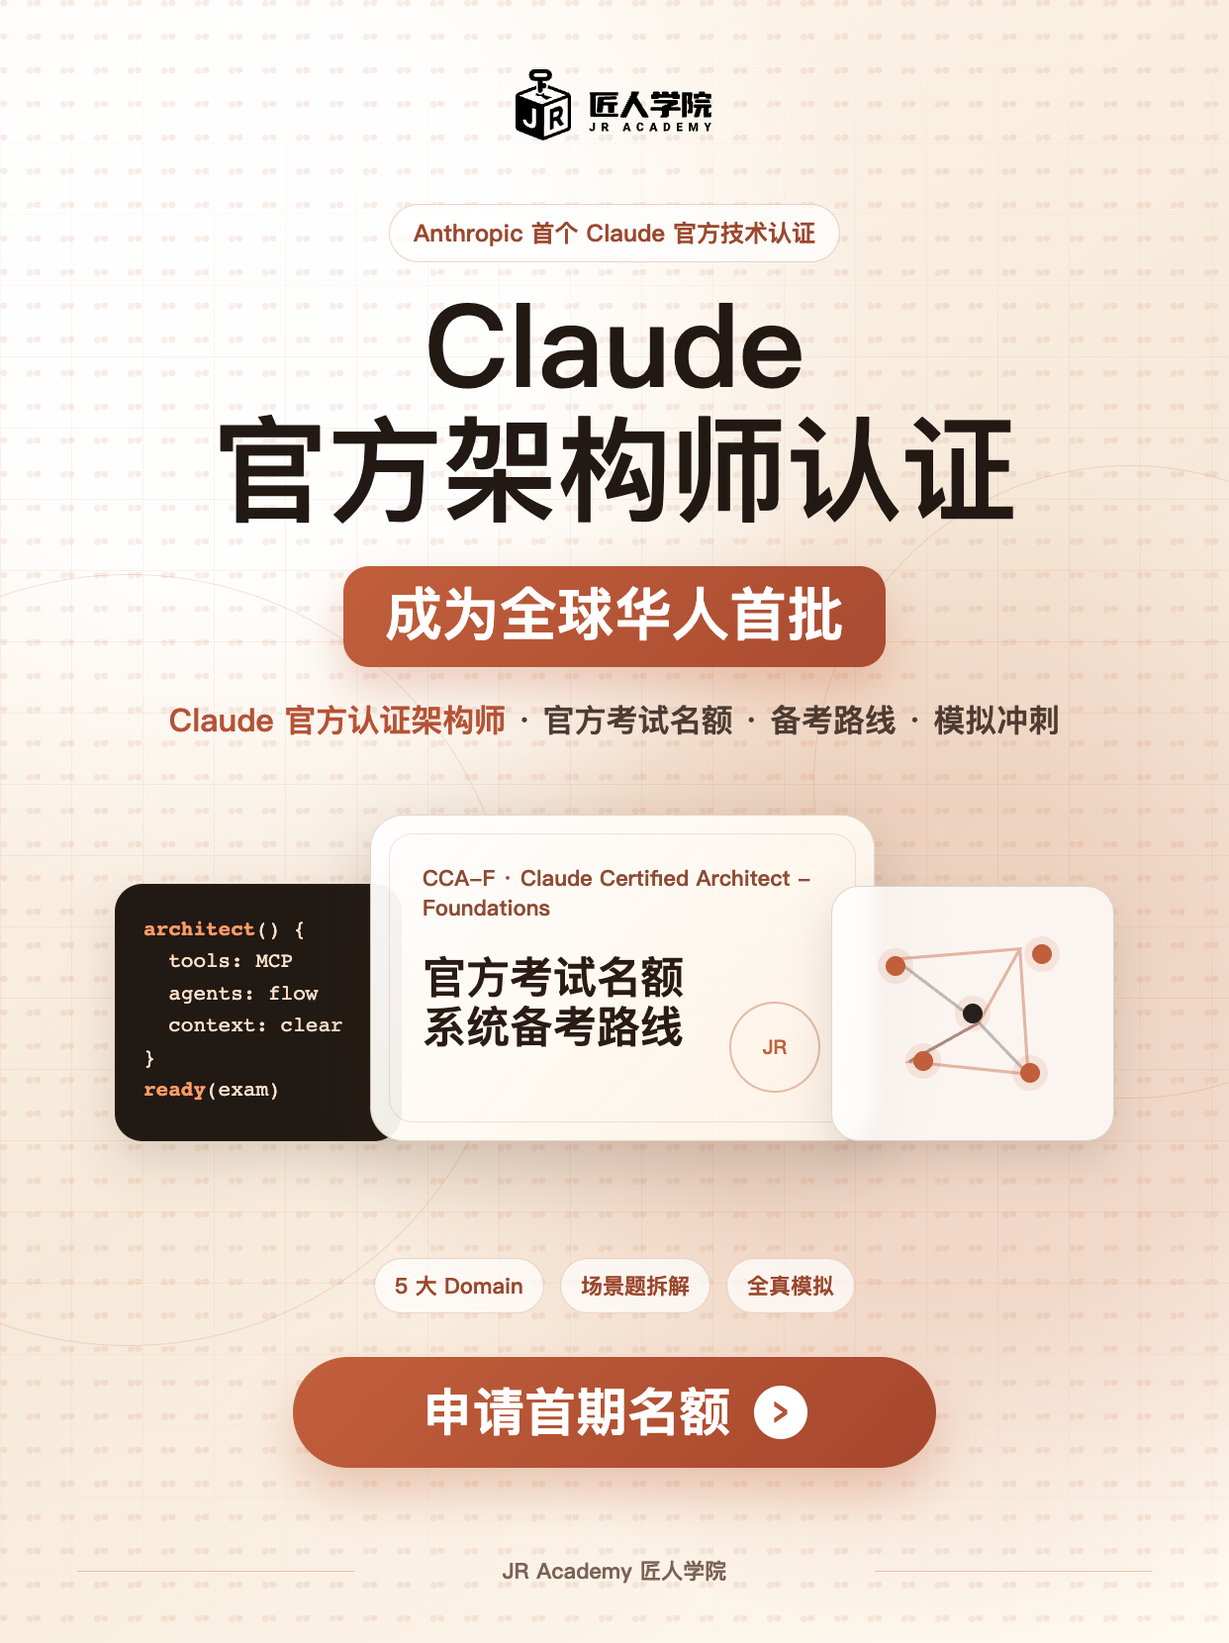
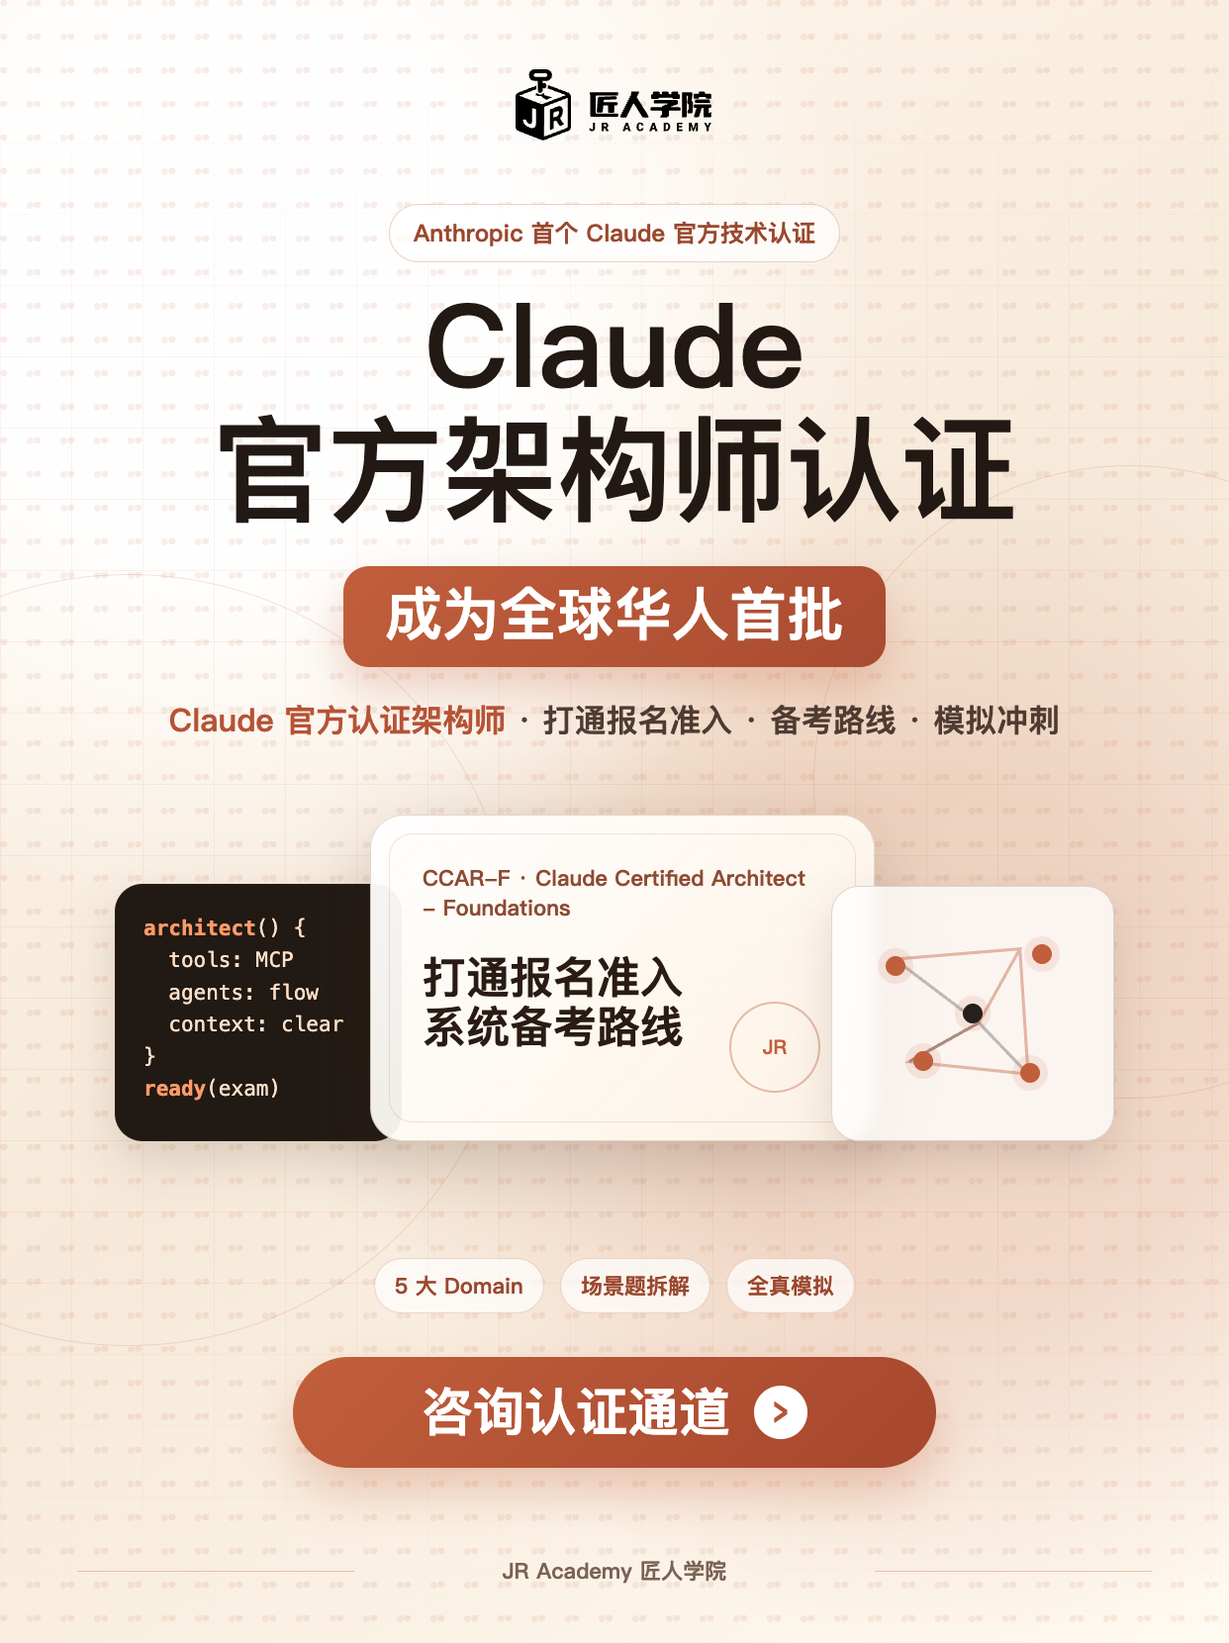
docs(cca-f): align CCAR-F marketing highlights

diff --git a/cca-f-cert-pack/public/curriculum.html b/cca-f-cert-pack/public/curriculum.html
@@ -4,7 +4,7 @@
   <meta charset="UTF-8">
   <meta name="viewport" content="width=device-width,initial-scale=1">
   <title>Claude 官方架构师认证 · 考试直通包 · 报名准入 + 系统备考</title>
-  <meta name="description" content="Anthropic 官方 Claude Certified Architect – Foundations（考试代码 CCAR-F）认证考试直通包：成为全球华人首批 Claude 官方认证架构师。Partner Academy 不对个人开放注册——匠人为你开通账号打通报名准入，另有 5 大 domain 考点精析 + 6 类场景题拆解 + 2 套全真模拟 + 注册约考全程陪跑。">
+  <meta name="description" content="Anthropic 官方 Claude Certified Architect – Foundations（考试代码 CCAR-F）认证考试直通包：成为全球华人首批 Claude 官方认证架构师。匠人通过 Claude Partner Network 合规通道为你开通 Partner Academy 账号，另有 5 大 domain 考点精析 + 6 类场景题拆解 + 2 套全真模拟 + 注册约考全程陪跑。">
   <link href="https://fonts.googleapis.com/css2?family=Bricolage+Grotesque:wght@700;800;900&family=DM+Sans:wght@400;500;600;700&family=Space+Mono:wght@400;700&family=Noto+Sans+SC:wght@400;500;700;900&display=swap" rel="stylesheet">
   <link rel="stylesheet" href="./styles.css">
   <style>
@@ -23,7 +23,7 @@
 <header class="header">
   <div class="c">
     <h1>Claude 官方架构师认证 · 考试直通包</h1>
-    <div class="sub">成为全球华人首批 <strong>Claude 官方认证架构师</strong>。Anthropic Partner Academy 不对个人开放注册——匠人以 Claude Partner Network 成员身份为你开通账号，再带你走完最短备考路线、两套全真模拟冲刺过考。</div>
+    <div class="sub">成为全球华人首批 <strong>Claude 官方认证架构师</strong>。匠人通过 Claude Partner Network 合规通道为你开通 Partner Academy 账号，再带你走完最短备考路线、两套全真模拟冲刺过考。</div>
     <div class="tags">
       <span class="tag a">纯自学 · 12h 看完</span>
       <span class="tag b">开通 Partner Academy 账号</span>
@@ -58,8 +58,8 @@
       <div class="grid2" style="gap:16px">
         <div class="pillar">
           <div class="n">支柱 1 · 报名准入</div>
-          <h4>🚪 这道门个人打不开</h4>
-          <p>CCAR-F 是 Anthropic 首个官方技术认证，报名只走 Partner Academy 这一条路，而<strong>这个平台不对个人开放自助注册</strong>。匠人已注册加入 Claude Partner Network，可以为你<strong>开通账号</strong>——没有这一步你连报名页都进不去。开通后你本人在平台上注册考试、直接向官方支付考试费，我们全程陪你走完注册、建 Pearson 账号、预约和环境自检。</p>
+          <h4>🚪 CPN 合规通道开通账号</h4>
+          <p>CCAR-F 是 Anthropic 首个官方技术认证，报名只走 Partner Academy 这一条链路。匠人已注册加入 Claude Partner Network，可以通过合规通道为你<strong>开通 Partner Academy 账号</strong>、打通报名准入。开通后你本人在平台上注册考试、直接向官方支付考试费，我们全程陪你走完注册、建 Pearson 账号、预约和环境自检。</p>
         </div>
         <div class="pillar">
           <div class="n">支柱 2 · 替你省下几十小时摸索</div>
@@ -176,7 +176,7 @@
         <div class="pain-card">
           <span class="icon">✅</span>
           <h4>适合你，如果……</h4>
-          <p>你<strong>已经在用</strong> Claude / Claude Code / MCP 做真实项目，只差一张官方证书背书；你不需要人从零教你，只想要门票 + 最短路线 + 模拟题自己冲刺过考；你是技术顾问 / 外包，需要认证进入 Anthropic Services Partner Directory 拿单。</p>
+          <p>你<strong>已经在用</strong> Claude / Claude Code / MCP 做真实项目，只差一张官方证书背书；你不需要人从零教你，只想要报名准入 + 最短路线 + 模拟题自己冲刺过考；你是技术顾问 / 外包团队成员，想用个人认证给简历、提案和团队合作伙伴资质加分。</p>
         </div>
         <div class="pain-card">
           <span class="icon">⚠</span>

diff --git a/cca-f-cert-pack/public/poster-v1.html b/cca-f-cert-pack/public/poster-v1.html
@@ -352,7 +352,7 @@
       </div>
 
       <div class="certificate">
-        <div class="small">CCA-F · Claude Certified Architect - Foundations</div>
+        <div class="small">CCAR-F · Claude Certified Architect - Foundations</div>
         <div class="title">打通报名准入<br />系统备考路线</div>
         <div class="seal">JR</div>
       </div>
@@ -376,7 +376,7 @@
       <div class="pill">全真模拟</div>
     </div>
 
-    <div class="cta">申请首期席位 <span>›</span></div>
+    <div class="cta">咨询认证通道 <span>›</span></div>
 
     <footer>
       <span>JR Academy 匠人学院</span>

diff --git a/cca-f-cert-pack/MARKETING_PLAN.md b/cca-f-cert-pack/MARKETING_PLAN.md
@@ -23,7 +23,7 @@
 
 - Claude 官方架构师认证 · 考试直通包
 - 成为全球华人首批 Claude 官方认证架构师
-- 匠人 CPN 合规通道 · 帮你打通个人打不开的报名准入 · 系统备考路线
+- 匠人 CPN 合规通道 · 打通 Partner Academy 报名准入 · 系统备考路线
 
 ## 2. 产品定位
 
@@ -44,7 +44,7 @@
 
 核心不是卖资料，而是三件事：
 
-1. 打通那道门：Partner Academy 是个人打不开的准入墙，匠人通过 CPN 合规通道为你开通账号、打通报名资格。账号开通后，你本人在 Partner Academy 上自行注册考试、自行结账支付官方考试费，再自己建 Pearson VUE 账号约考——每一步匠人都陪你走。
+1. 打通报名准入：匠人通过 CPN 合规通道为你开通 Partner Academy 账号、打通报名资格。账号开通后，你本人在 Partner Academy 上自行注册考试、自行结账支付官方考试费，再自己建 Pearson VUE 账号约考——每一步匠人都陪你走。
 2. 备考路线：把 Anthropic Academy 散课整理成 5-domain 最短路径。
 3. 冲刺确定性：原创考点精析、场景题框架、全真模拟、注册与约考陪跑。
 
@@ -58,7 +58,7 @@
 
 副口号：
 
-> Anthropic 首个 Claude 官方技术认证。个人打不开的报名准入，匠人通过 Claude Partner Network 合规通道为你开通；再配上备考路线和全真模拟，陪你走通注册、约考、考场。
+> Anthropic 首个 Claude 官方技术认证。匠人通过 Claude Partner Network 合规通道为你开通 Partner Academy 账号；再配上备考路线和全真模拟，陪你走通注册、约考、考场。
 
 渠道变体：
 
@@ -98,7 +98,19 @@
 
 ## 5. 核心卖点
 
-### 卖点 1：打通个人打不开的报名准入（CPN 合规通道）
+### 宣传亮点总表
+
+| 亮点 | 对外说法 | 注意 |
+|---|---|---|
+| 首批窗口 | 成为全球华人首批 Claude 官方认证架构师 | 主口号，封面优先用 |
+| 官方认证 | Anthropic 首个 Claude 官方技术认证，考试代码 CCAR-F | 首次出现写全称，后文再补代码 |
+| 报名准入 | 匠人 CPN 合规通道，为你开通 Partner Academy 账号 | 作为可信度支柱，不做封面标题 |
+| 最短路线 | 把 Anthropic Academy 20 门散课编成 5-domain 备考路线 | 强调“官方课免费，但路线和题没有” |
+| 真题型训练 | 6 类场景题拆解 + 四步答题框架 | 不复用官方样题，不碰版权红线 |
+| 全真模拟 | 2 套 60 题 / 120 分钟模拟 + 逐题解析 | 不承诺保过，只讲冲刺和反馈 |
+| 考场陪跑 | 注册、Pearson VUE 约考、OnVUE 环境自检、重考规则答疑 | 强调考试费另付，但公开不写金额 |
+
+### 卖点 1：打通 Partner Academy 报名准入（CPN 合规通道）
 
 这是最硬的价值点，也是可信度支柱，但不要放成封面主口号。封面先讲“成为全球华人首批 Claude 官方认证架构师”。
 
@@ -154,14 +166,14 @@
 首屏必须包含：
 
 - 标题：Claude 官方架构师认证 · 考试直通包
-- 副标题：成为全球华人首批 Claude 官方认证架构师。个人打不开的 Partner Academy 报名准入，匠人 CPN 合规通道为你开通；再配最短备考路线、全真模拟，陪你走完注册、约考、考场。
+- 副标题：成为全球华人首批 Claude 官方认证架构师。匠人 CPN 合规通道为你开通 Partner Academy 账号；再配最短备考路线、全真模拟，陪你走完注册、约考、考场。
 - 三个 bullet：
-  - 为你开通 Anthropic Partner Academy 账号——这道门个人无法自行注册。
+  - 为你开通 Anthropic Partner Academy 账号，打通报名准入。
   - 匠人 CPN 合规通道打通报名资格，全程陪你走注册 → 约考 → 考场。
   - 5-domain 精析 + 场景题拆解 + 全真模拟 + 注册约考陪跑。
 - CTA：
   - 咨询报名资格
-  - 申请首期席位
+  - 咨询认证通道
   - 了解考试直通包
 
 FAQ 必须回答：
@@ -189,7 +201,7 @@ FAQ 必须回答：
 
 封面关键词：
 
-- 个人报不了名
+- Partner Academy 报名准入
 - Anthropic 官方认证
 - 首批 Claude 官方认证架构师
 - Claude 架构师认证
@@ -209,7 +221,7 @@ FAQ 必须回答：
 4. 官方资料免费，但缺少路线和模拟题。
 5. 匠人考试直通包包含什么。
 6. 谁适合报名，谁不适合。
-7. 如何申请首期席位。
+7. 如何咨询认证通道。
 
 ### 朋友圈 / 私域
 
@@ -225,7 +237,7 @@ FAQ 必须回答：
 
 开场：
 
-> 这个不是普通课程，它是 Claude 官方架构师认证的报名准入 + 备考冲刺包。关键点是：Partner Academy 个人自己注册不了，必须由 CPN 伙伴开通账号才进得去。匠人通过 Claude Partner Network 合规通道为你开通账号、打通报名资格，再配套备考路线和模拟冲刺。账号开通后你本人自行注册考试、自行结账付官方考试费（这笔费用不含在包价里，按官方标准，具体金额我私下跟你讲），再自己建 Pearson VUE 账号约考，每一步我都陪你走。
+> 这个不是普通课程，它是 Claude 官方架构师认证的报名准入 + 备考冲刺包。匠人通过 Claude Partner Network 合规通道为你开通 Partner Academy 账号、打通报名资格，再配套备考路线和模拟冲刺。账号开通后你本人自行注册考试、自行结账付官方考试费（这笔费用不含在包价里，按官方标准，具体金额我私下跟你讲），再自己建 Pearson VUE 账号约考，每一步我都陪你走。
 
 判断用户：
 
@@ -235,7 +247,7 @@ FAQ 必须回答：
 
 逼单逻辑：
 
-> 真正稀缺的是首批持证窗口和那道个人打不开的报名准入，不是资料本身。首期确认后，我们会优先为你开通 Partner Academy 账号、陪你走注册和 Pearson 约考流程。
+> 真正稀缺的是首批持证窗口、CPN 合规报名准入和不用自己摸索的备考路线，不是资料本身。确认后，我们会优先为你开通 Partner Academy 账号、陪你走注册和 Pearson 约考流程。
 
 ## 7. 宣传节奏
 

diff --git a/cca-f-cert-pack/PROMOTION_PLAN.md b/cca-f-cert-pack/PROMOTION_PLAN.md
@@ -13,7 +13,7 @@
 | Course Slug | `cca-f-cert-pack`（目录名历史遗留，正文一律 CCAR-F，线上 URL 已冻结不改）|
 | Course 中文名 | Claude 官方架构师认证 · 考试直通包（Claude Certified Architect – Foundations）|
 | **🎯 Course Type** | **Type 8 · 认证课（首发窗口变体）** |
-| 类型识别理由 | 付费直通包，核心价值=「个人打不开的 CPN 报名准入」+「全球华人首批持证窗口」稀缺感。第一阶段走 launch 冲刺（非标准 Type 8 长尾），首批过考案例出来后转长尾常青。|
+| 类型识别理由 | 付费直通包，核心价值=「全球华人首批 Claude 官方认证架构师」+「CPN 合规报名准入」+「最短备考路线与全真模拟」。第一阶段走 launch 冲刺（非标准 Type 8 长尾），首批过考案例出来后转长尾常青。|
 | 两阶段 | 阶段 A 首发窗口冲刺 ✅ **首期已售罄（2026-07-15）** → **当前：常规滚动报名 + 证明期**（首批学员备考/考试，案例出来即升级口号）→ 阶段 B 长尾常青（SEO + cert 长文持续）|
 | **🧑 PERSONAS.md 状态** | ✅ 已建 [`./PERSONAS.md`](./PERSONAS.md)（2026-07-15 init）。⚠ **Ground truth 覆盖率 ~35% 偏弱** —— 画像/不会买的人有官方依据，痛点原话/决策周期/活跃平台待补。**首期已售罄 = 真实买家名单已存在，应尽快 `/target-user-persona-mapper refresh cca-f-cert-pack --cohort=1` 拉到 70%+。** |
 | Launch Date | 2026-07-15 首期开售，**当日售罄**；现常规滚动报名 |
@@ -29,7 +29,7 @@
 
 > 🧑 **目标用户画像见 [./PERSONAS.md](./PERSONAS.md)（2026-07-15 init，⚠ 覆盖率 ~35% 待 refresh）**。详细话术 / 卖点看 `MARKETING_PLAN.md`。本节只抽 1 屏。
 
-**一句话**：成为全球华人首批 Claude 官方认证架构师 —— 个人报不了名的那道 Partner Academy 门，匠人通过 CPN 合规通道替你打开，再给最短备考路线和全真模拟冲刺。卖的是**报名准入 + 路线 + 冲刺**，不是资料。
+**一句话**：成为全球华人首批 Claude 官方认证架构师 —— 匠人通过 CPN 合规通道为你开通 Partner Academy 账号，再给最短备考路线和全真模拟冲刺。卖的是**报名准入 + 路线 + 冲刺**，不是资料。
 
 **目标人群**（官方 Exam Guide 受众 + MARKETING_PLAN §4）：
 - P1 — 已在用 Claude / Claude Code / MCP 做项目的开发者（核心）
@@ -40,7 +40,7 @@
 
 **主推内容角度**（Type 8 首发窗口变体 · 权重排序）：
 1. ⭐⭐⭐⭐⭐ **首个 Claude 官方技术认证 + 首批持证窗口稀缺感** —— "全球华人首批"是不可复制的时间窗
-2. ⭐⭐⭐⭐⭐ **CPN 报名准入这道门个人打不开**（可信度支柱，但不做封面主钩子）
+2. ⭐⭐⭐⭐⭐ **CPN 合规通道打通 Partner Academy 报名准入**（可信度支柱，但不做封面主钩子）
 3. ⭐⭐⭐⭐ **5-domain 最短备考路线** —— 官方课免费但散，我们把它排成能过考的路线（Agentic Architecture 权重 27% 最高，备考重心先压这里）
 4. ⭐⭐⭐⭐ **Anthropic 官方 CCAR-F 专属精选页借势（2026-07 新上线）** —— Anthropic 刚为 CCAR-F 打包了 7 门免费备考课专属页（Claude Certification Exam Prep Courses：《Building with the Claude API》《Claude Code in Action》《Introduction to Model Context Protocol》等）。内容切角：「官方都替你选好课了，为什么还过不了考？」——7 门课≈20+ 小时，没有考点权重、没有题、没有反馈；我们的第一章免费预览里有**逐门解读**（哪几门真压中考点、哪几门是通用素养可跳过）。官网销售页已上线对应链接（2026-07-15 部署），小红书/公众号引流可直接落到销售页看逐门解读。
 

diff --git a/cca-f-cert-pack/DESIGN.md b/cca-f-cert-pack/DESIGN.md
@@ -33,7 +33,7 @@ themeColor `#C15F3C`（Claude 珊瑚色的深色调，区别于实战班的 `#D9
 
 ## 🎯 一句话定位
 
-> **"成为全球华人首批 Claude 官方认证架构师——个人报不了名的这道门，匠人替你打开，再给你最短备考路线和全真模拟冲刺。"**
+> **"成为全球华人首批 Claude 官方认证架构师——匠人 CPN 合规通道打通报名准入，再给你最短备考路线和全真模拟冲刺。"**
 
 不要卖"资料"。卖的是**报名准入 + 路线 + 模拟冲刺**这三件事。
 
@@ -43,7 +43,7 @@ themeColor `#C15F3C`（Claude 珊瑚色的深色调，区别于实战班的 `#D9
 
 学员心里的疑问是"不就是发我一堆 PDF？"。用这三根支柱正面拆掉它：
 
-### 支柱 1 · 报名准入：这道门个人打不开
+### 支柱 1 · 报名准入：CPN 合规通道开通账号
 - CCAR-F 是 Anthropic 首个官方技术认证，报名与约考只走 **Anthropic Partner Academy → Pearson VUE** 这一条链路。
 - **Partner Academy 不对个人开放自助注册。** 匠人已注册加入 **Claude Partner Network（CPN）**，可以在后台为学员开通账号——没有这一步，你连报名页都进不去。
 - 账号开通后：**你本人**在 Partner Academy 注册考试、直接向官方支付考试费，再建 Pearson VUE 账号选日期与考场。整条链路匠人全程陪你走（L03/L04 两个 Quest 就是干这个的）。
@@ -93,17 +93,12 @@ themeColor `#C15F3C`（Claude 珊瑚色的深色调，区别于实战班的 `#D9
 
 ---
 
-## 📌 定价口径（内部）
+## 📌 价格口径（不进对外宣传）
 
-- **站内认证详情页价格卡：定价锚点 A$399 澳元（直通包价）+「立即购买」**（Lightman 2026-07-12 决定，**澳元锚定，非美元**）。
-  - 落点：`certification.pricing.singlePrice = 399`，三处同步（前端 `data/ccar-f/certification.ts`、后端 `seed-data/ccar-f.seed.ts`、prod 库 import-static）。
-  - 💱 系统基准货币就是 AUD（`exchangeRate.ts`，1 AUD = US$0.65 固定汇率），所以**填 399 即 A$399**。各币种展示：🇦🇺 **A$399** / 🇺🇸 US$259 / 🇨🇳 ¥1875 / 🇬🇧 £207。改价直接改澳元数字；填的数字**就是澳元**，别按美元填。
-  - ⚠ 曾短暂按「美元锚定 US$399」存过 614，2026-07-12 Lightman 改判为澳元锚定 A$399（美元实收 US$259）。本条为准，别再回退到 614。
-  - 系统当前 C 端 cert 无 per-currency 独立定价能力（价格卡只做 AUD 基准 × 固定汇率的机械换算），非基准币种数字不圆整是系统限制，不是配置错误。
-  - ⚠ 这是**直通包产品价**（路线 + 原创冲刺件 + 陪跑 + 开通 Partner Academy 账号），**不是官方考试费**（学员自付，站内外都不写这个数字）。
+- **站内认证详情页与后台 program 字段需要价格配置**，但宣传物料不展示具体数字。
+  - 落点：`certification.pricing.singlePrice`、后端 seed、prod 库 import-static。
   - 🚨 不写 `pricing` 会被 schema 默认 `singlePrice:0` 判成「免费获取」——踩过，见 PRD/CHANGELOG 2026-07-12。
-- **站外物料（海报、小红书、公众号、宣传长文）仍不露出价格**，走销售私聊 / 报名确认 / EOI。
-- 价格也用于后台 program 字段。
+- **站外物料（海报、小红书、公众号、宣传长文、公开 SoT）不露出价格**，走销售私聊 / 报名确认 / EOI。
 - 对外价值解释只讲：Partner Academy 账号开通（个人无法自行注册）、5-domain 备考路线、场景题拆解、全真模拟、报名与约考全程陪跑。
 - **考试费单独说明**：按官方标准，由学员在 Partner Academy 结账时直接支付，不含在包价内。对外不写金额，销售私聊阶段再讲。
 

diff --git a/cca-f-cert-pack/PERSONAS.md b/cca-f-cert-pack/PERSONAS.md
@@ -49,7 +49,7 @@
 - **日常活跃平台 Top 5 + 时段**：⚠ 待补（推断：公众号技术号 / 掘金 / V2EX / LinkedIn / 微信技术群，时段未知）`[来源: AI 推断]`
 - **信任谁**：⚠ 待补（推断：官方 blueprint 数字、已过考的同行复盘、技术 KOL）`[来源: AI 推断]`
 - **不信什么（黑名单）**：⚠ 待补（推断：「保过/包过」话术、「官方合作伙伴」自称——技术人对夸大宣传敏感）`[来源: AI 推断，与 CLAUDE_CERT_FAMILY §2 红线一致]`
-- **购买触发器**：看到「个人报不了名，匠人 CPN 通道能开通账号」+「首批华人持证窗口」`[来源: MARKETING_PLAN §5 卖点1 + §7 逼单逻辑，销售侧口径]`
+- **购买触发器**：看到「成为全球华人首批 Claude 官方认证架构师」+「匠人 CPN 合规通道开通 Partner Academy 账号」`[来源: MARKETING_PLAN §3 主口号 + §5 卖点1，销售侧口径]`
 - **异议 Top 3**：
   1. 「官方课不是免费吗，为什么还要付费包」`[来源: MARKETING_PLAN §6 FAQ，销售侧已识别]`
   2. 「是不是就发我一堆 PDF」`[来源: DESIGN 支柱开头，销售侧已识别]`
